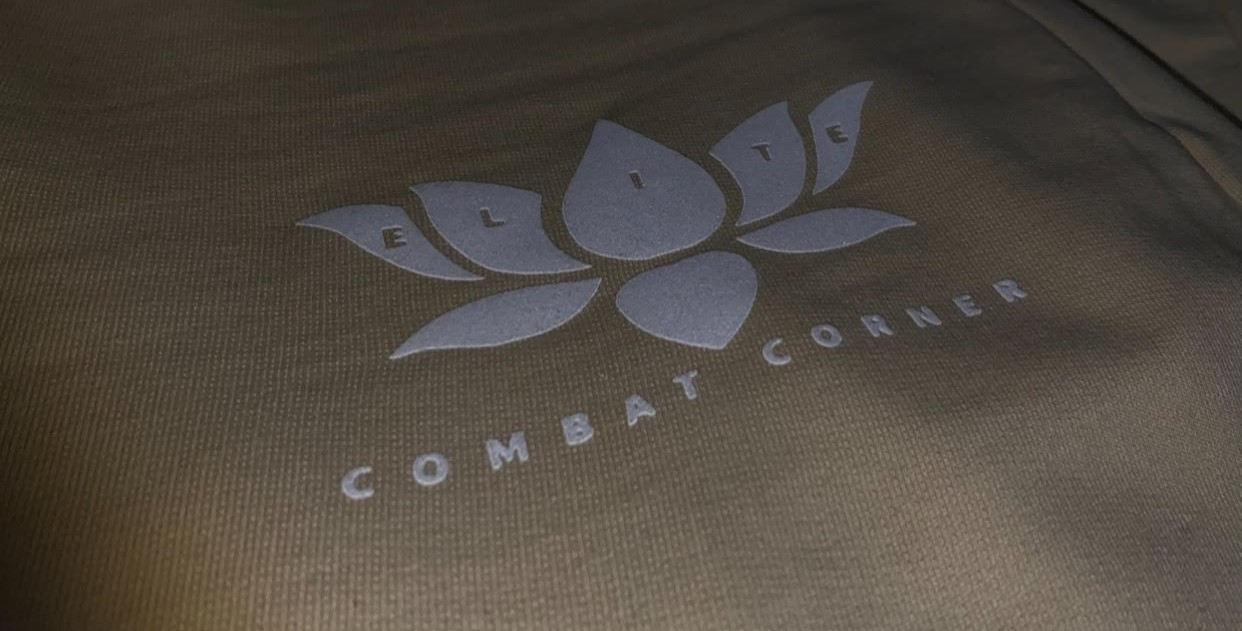
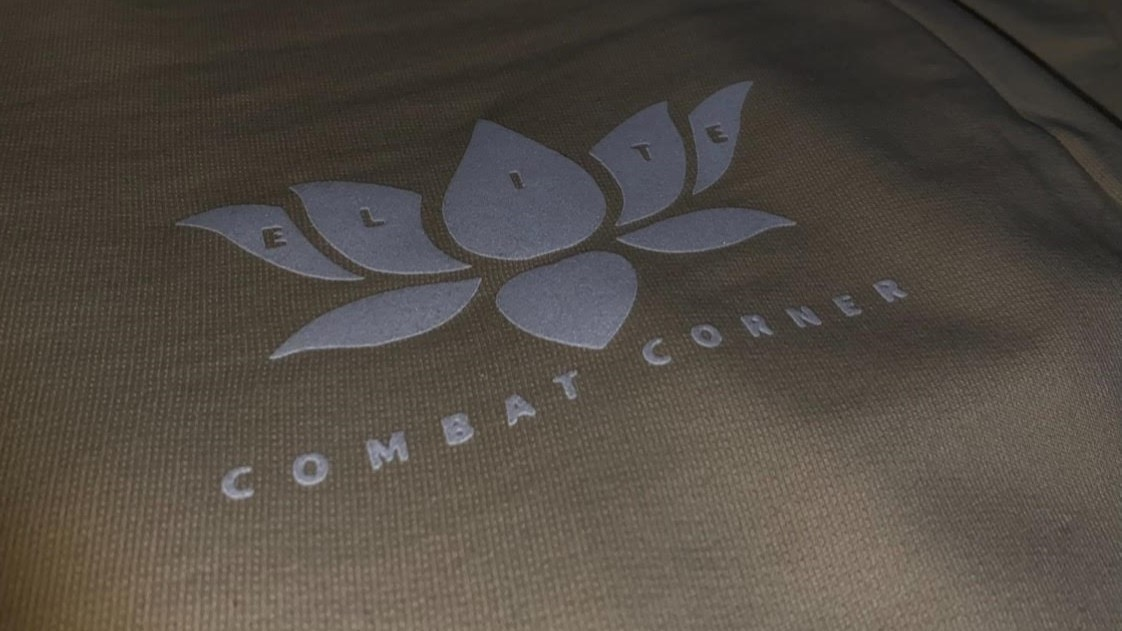
Add files via upload

diff --git a/index.html b/index.html
@@ -98,7 +98,7 @@
         <div id="header-carousel" class="carousel slide" data-bs-ride="carousel">
             <div class="carousel-inner">
                 <div class="carousel-item active">
-                    <img class="w-100" src="img/elite.jpg" alt="Image">
+                    <img class="w-100" src="img/elite2.jpg" alt="Image">
                     <div class="carousel-caption d-flex flex-column align-items-center justify-content-center">
                         <div class="p-3" style="max-width: 900px;">
                             <h5 class="text-white text-uppercase">Elite Combat Corner</h5>
@@ -148,8 +148,7 @@
                     <h5 class="text-primary text-uppercase">σχετικα</h5>
                     <h1 class="display-3 text-uppercase mb-0">καλως ηρθες στην Elite</h1>
                 </div>
-                <h4 class="text-body mb-4">Στην Elite, είμαστε κάτι περισσότερο από μια επιχειρηση στον κλαδο των πολεμικών τεχνών -Με ιδρυτη τον βασιλη φαγογενη, είμαστε μια κοινότητα αφιερωμένη στην ενδυνάμωση των ατόμων μέσω της τέχνης της μάχης και της αυτοβελτίωσης.</h4>
-                <p class="mb-4">Η Elite είναι ένα ολοκληρωμένο ίδρυμα πολεμικών τεχνών που προσφέρει εκπαίδευση, αυτοανάπτυξη, ρούχα μάχης για τους θαυμαστές μας και εξοπλισμό για πολεμικές τέχνες. Με επίκεντρο τα ολιστικά προγράμματα προπόνησης, η επιχείρηση παρέχει εκπαίδευση σε διάφορους κλάδους, όπως kickboxing, MMA και Taekwondo, που απευθύνεται σε άτομα όλων των ηλικιών και επιπέδων δεξιοτήτων. Εκτός από την εκπαίδευση πολεμικών τεχνών, το Elite Combat Corner προσφέρει μια ολοκληρωμένη σειρά προϊόντων αυτοφροντίδας, εξοπλισμού και επώνυμων ρούχων για να υποστηρίξει την πελατεία της στο ταξίδι της προς τη σωματική και ψυχική ευεξία.</p>
+                <h4 class="text-body mb-4">H Elite, ιδρυμένη από τον Βασίλειο Φαγογένη και την αφοσιωμένη του ομαδα σκληραγωγημένων πολεμιστών, είναι κάτι περισσότερο από μια ακαδημία πολεμικών τεχνών - είναι ένας κόσμος αδυσώπητης δύναμης και επικίνδυνης ενδυνάμωσης στον κόσμο των μαχητικών σπορ. Ο Βασίλειος και η ομάδα του φέρνουν έναν πλούτο εμπειρίας, πάθους και αφοσίωσης σε κάθε πτυχή της επιχείρησης, από την εκπαίδευση και την προετοιμασία έως την παροχή κορυφαίων μαχητικών προμηθειών και ενδυμάτων.</p>
                 <div class="rounded bg-dark p-5">
                     <ul class="nav nav-pills justify-content-between mb-3">
                         <li class="nav-item w-50">
@@ -161,10 +160,10 @@
                     </ul>
                     <div class="tab-content">
                         <div class="tab-pane fade show active" id="pills-1">
-                            <p class="text-secondary mb-0">Με ένα ευρύ φάσμα προγραμμάτων κατάρτισης που καθοδηγούνται από έμπειρους εκπαιδευτές, καλωσορίζουμε ενθουσιώδεις κάθε ηλικίας και επίπεδο δεξιοτήτων να συμμετάσχουν μαζί μας για να κατακτήσουν τους κλάδους του kickboxing, του MMA και του Taekwondo. Η δέσμευσή μας στην ποιότητα και την αριστεία εκτείνεται πέρα από τις προπονήσεις μας, καθώς προσφέρουμε μια εκτενή επιλογή προϊόντων αυτοφροντίδας, εξοπλισμού και ενδυμάτων υψηλής ποιότητας για να υποστηρίξουμε τα μέλη μας στο ταξίδι τους για την επίτευξη κορυφαίας φυσικής και πνευματικής ικανότητας. Είτε επιδιώκετε να βελτιώσετε τις δεξιότητές σας στην αυτοάμυνα, είτε να βελτιώσετε το επίπεδο φυσικής σας κατάστασης είτε απλώς να υιοθετήσετε έναν πιο υγιεινό τρόπο ζωής,Η Elite Combat Corner είναι εδώ για να σας καθοδηγήσει σε κάθε βήμα. ----- Επιπροσθέτως όσον αφορά το Taekwondo, εμείς καθώς δεν φέρουμε ακόμα κάποιο πιστοποιητικό/πτυχίο ενισχύουμε εθελοντικά χωρίς όφελος το έργο της σχόλης ''Α. Σ. Ακρόπολη'' (όπου και είμαστε υψηλών ζωνών μαθητευόμενοι μέχρι και σήμερα), οπού διδάσκει ο Δάσκαλος και κύριος Βαγγέλης Τσιμητράς. ----- </p>
+                            <p class="text-secondary mb-0">Με ένα ευρύ φάσμα προγραμμάτων κατάρτισης που καθοδηγούνται από έμπειρους εκπαιδευτές, καλωσορίζουμε ενθουσιώδεις κάθε ηλικίας και επίπεδο δεξιοτήτων να συμμετάσχουν μαζί μας για να κατακτήσουν τους κλάδους του kickboxing, του MMA και της πυγμαχίας. Η δέσμευσή μας στην ποιότητα και την αριστεία εκτείνεται πέρα από τις προπονήσεις μας, καθώς προσφέρουμε μια εκτενή επιλογή προϊόντων αυτοφροντίδας, εξοπλισμού και ενδυμάτων υψηλής ποιότητας για να υποστηρίξουμε τα μέλη μας στο ταξίδι τους για την επίτευξη κορυφαίας φυσικής και πνευματικής ικανότητας. Είτε επιδιώκετε να βελτιώσετε τις δεξιότητές σας στην αυτοάμυνα, είτε να βελτιώσετε το επίπεδο φυσικής σας κατάστασης είτε απλώς να υιοθετήσετε έναν πιο υγιεινό τρόπο ζωής,Η Elite Combat Corner είναι εδώ για να σας καθοδηγήσει σε κάθε βήμα.</p>
                         </div>
                         <div class="tab-pane fade" id="pills-2">
-                            <p class="text-secondary mb-0">Επιλέξτε την Elite για μια απαράμιλλη εμπειρία πολεμικών τεχνών που ξεπερνά την παραδοσιακή προπόνηση. Οι διάσημοι εκπαιδευτές μας φέρνουν τεχνογνωσία και πάθος σε κάθε τάξη, καθοδηγώντας τους μαθητές όλων των ηλικιών και επιπέδων δεξιοτήτων προς τους στόχους τους με εξατομικευμένη προσοχή και υποστήριξη. Με ένα ευρύ φάσμα επιστημονικών κλάδων, όπως το kickboxing, το MMA και το Taekwondo, τα ολοκληρωμένα προγράμματά μας ενισχύουν τη φυσική κατάσταση, την πνευματική πειθαρχία και την προσωπική ανάπτυξη. Πέρα από το ντότζο, η δέσμευσή μας για την ποιότητα επεκτείνεται στην επιλεγμένη επιλογή προϊόντων αυτοφροντίδας, εξοπλισμού και ρούχων, διασφαλίζοντας ότι τα μέλη μας έχουν όλα όσα χρειάζονται για επιτυχία. Γίνετε μέλος της κοινότητάς μας χωρίς αποκλεισμούς και ξεκινήστε ένα ταξίδι ενδυνάμωσης, συντροφικότητας και αυτοανακάλυψης με την Elite Combat Corner.</p>
+                            <p class="text-secondary mb-0">Ελάτε στον Βασίλειο Φαγογένη και στην Elite ομαδα του για να βιώσετε τη σκληρότητα και τη δύναμη των πολεμικών τεχνών. Η κοινότητά μας είναι χτισμένη πάνω στην πειθαρχία, την αδιάκοπη αντοχή και τη συντροφικότητα, βοηθώντας σας να απελευθερώσετε το πλήρες δυναμικό σας και να επιτύχετε αριστεία τόσο στο ρινγκ όσο και έξω από αυτό. Αν θελεις να εισαι αναμεσα στους καλυτερους kickboxers, πυγμαχους και MMAers, η ευκαιρια ειναι τωρα! </p>
                         </div>
                     </div>
                 </div>
@@ -194,13 +193,13 @@
             <div class="col-lg-4 col-md-6">
                 <div class="bg-light rounded text-center p-5">
                     <i class="flaticon-six-pack display-1 text-primary"></i>
-                    <h3 class="text-uppercase my-4">Taekwondo</h3>
-                    <p>Το Taekwondo είναι μια παραδοσιακή κορεάτικη πολεμική τέχνη γνωστή για τις δυναμικές τεχνικές κλωτσιών και την έμφαση στην πειθαρχία και τον σεβασμό. Προσφέρει μια ολιστική προσέγγιση στην εκπαίδευση πολεμικών τεχνών, ενσωματώνοντας φόρμες (μοτίβα), sparring και τεχνικές αυτοάμυνας. Το Taekwondo προάγει τη φυσική κατάσταση, την πνευματική εστίαση και την ανάπτυξη του χαρακτήρα, ενσταλάσσοντας αξίες όπως η επιμονή, η ακεραιότητα και το αδάμαστο πνεύμα στους ασκούμενους του.</p>
+                    <h3 class="text-uppercase my-4">Πυγμαχια</h3>
+                    <p>Η πυγμαχία είναι μια κλασική μορφή πολεμικής τέχνης που εστιάζει στη χρήση των χεριών για γρήγορες και ισχυρές γροθιές. Η πυγμαχία βελτιώνει την αντοχή, τη δύναμη και την ταχύτητα των μαχητών. Μέσα από αυστηρά προγράμματα προπόνησης, οι μαθητές μαθαίνουν να ελέγχουν την τεχνική τους, να αναπτύσσουν γρήγορα αντανακλαστικά και να αποκτούν ατσάλινη αντοχή. Η πυγμαχία επισης βελτιώνει και την ψυχική ανθεκτικότητα, καθιστώντας τους μαχητές έτοιμους για οποιαδήποτε σύγκρουση.</p>
                 </div>
             </div>
             <div class="col-lg-12 col-md-6 text-center">
-                <h1 class="text-uppercase text-light mb-4">30% Εκπτωση μεχρι τον Ιουλιο</h1>
-                <a href="" class="btn btn-primary py-3 px-5">Γινε συνδρομητης</a>
+                <h1 class="text-uppercase text-light mb-4"> Μπες και εσυ στην ομαδα μας</h1>
+                <a href="" class="btn btn-primary py-3 px-5">Γινε μελος!</a>
             </div>
         </div>
     </div>
@@ -285,15 +284,15 @@
                         <div class="col-lg-3 col-md-4 col-sm-6">
                             <div class="bg-dark rounded text-center py-5 px-3">
                                 <h6 class="text-uppercase text-light mb-3">6.00pm - 8.00pm</h6>
-                                <h5 class="text-uppercase text-primary">Taekwondo</h5>
-                                <p class="text-uppercase text-secondary mb-0">τσιμητρας</p>
+                                <h5 class="text-uppercase text-primary">Πυγμαχία</h5>
+                                <p class="text-uppercase text-secondary mb-0">Τσουκαλης</p>
                             </div>
                         </div>
                         <div class="col-lg-3 col-md-4 col-sm-6">
                             <div class="bg-dark rounded text-center py-5 px-3">
                                 <h6 class="text-uppercase text-light mb-3">8.00pm - 10.00pm</h6>
-                                <h5 class="text-uppercase text-primary">Taekwondo</h5>
-                                <p class="text-uppercase text-secondary mb-0">τσιμητρας</p>
+                                <h5 class="text-uppercase text-primary">Πυγμαχία</h5>
+                                <p class="text-uppercase text-secondary mb-0">Τσουκαλης</p>
                             </div>
                         </div>
                     </div>
@@ -346,14 +345,14 @@
                             <div class="bg-dark rounded text-center py-5 px-3">
                                 <h6 class="text-uppercase text-light mb-3">6.00pm - 8.00pm</h6>
                                 <h5 class="text-uppercase text-primary">Kickboxing</h5>
-                                <p class="text-uppercase text-secondary mb-0">τσιμητρας</p>
+                                <p class="text-uppercase text-secondary mb-0">Τσουκαλης</p>
                             </div>
                         </div>
                         <div class="col-lg-3 col-md-4 col-sm-6">
                             <div class="bg-dark rounded text-center py-5 px-3">
                                 <h6 class="text-uppercase text-light mb-3">8.00pm - 10.00pm</h6>
                                 <h5 class="text-uppercase text-primary">Kickboxing</h5>
-                                <p class="text-uppercase text-secondary mb-0">τσιμητρας</p>
+                                <p class="text-uppercase text-secondary mb-0">Τσουκαλης</p>
                             </div>
                         </div>
                     </div>
@@ -405,15 +404,15 @@
                         <div class="col-lg-3 col-md-4 col-sm-6">
                             <div class="bg-dark rounded text-center py-5 px-3">
                                 <h6 class="text-uppercase text-light mb-3">6.00pm - 8.00pm</h6>
-                                <h5 class="text-uppercase text-primary">Taekwondo</h5>
-                                <p class="text-uppercase text-secondary mb-0">τσιμητρας</p>
+                                <h5 class="text-uppercase text-primary">Πυγμαχία</h5>
+                                <p class="text-uppercase text-secondary mb-0">Τσουκαλης</p>
                             </div>
                         </div>
                         <div class="col-lg-3 col-md-4 col-sm-6">
                             <div class="bg-dark rounded text-center py-5 px-3">
                                 <h6 class="text-uppercase text-light mb-3">8.00pm - 10.00pm</h6>
-                                <h5 class="text-uppercase text-primary">Taekwondo</h5>
-                                <p class="text-uppercase text-secondary mb-0">τσιμητρας</p>
+                                <h5 class="text-uppercase text-primary">Πυγμαχία</h5>
+                                <p class="text-uppercase text-secondary mb-0">Τσουκαλης</p>
                             </div>
                         </div>
                     </div>
@@ -466,14 +465,14 @@
                             <div class="bg-dark rounded text-center py-5 px-3">
                                 <h6 class="text-uppercase text-light mb-3">6.00pm - 8.00pm</h6>
                                 <h5 class="text-uppercase text-primary">Kickboxing</h5>
-                                <p class="text-uppercase text-secondary mb-0">τσιμητρας</p>
+                                <p class="text-uppercase text-secondary mb-0">Τσουκαλης</p>
                             </div>
                         </div>
                         <div class="col-lg-3 col-md-4 col-sm-6">
                             <div class="bg-dark rounded text-center py-5 px-3">
                                 <h6 class="text-uppercase text-light mb-3">8.00pm - 10.00pm</h6>
                                 <h5 class="text-uppercase text-primary">Kickboxing</h5>
-                                <p class="text-uppercase text-secondary mb-0">τσιμητρας</p>
+                                <p class="text-uppercase text-secondary mb-0">Τσουκαλης</p>
                             </div>
                         </div>
                     </div>
@@ -525,15 +524,15 @@
                         <div class="col-lg-3 col-md-4 col-sm-6">
                             <div class="bg-dark rounded text-center py-5 px-3">
                                 <h6 class="text-uppercase text-light mb-3">6.00pm - 8.00pm</h6>
-                                <h5 class="text-uppercase text-primary">Taekwondo</h5>
-                                <p class="text-uppercase text-secondary mb-0">τσιμητρας</p>
+                                <h5 class="text-uppercase text-primary">Πυγμαχία</h5>
+                                <p class="text-uppercase text-secondary mb-0">Τσουκαλης</p>
                             </div>
                         </div>
                         <div class="col-lg-3 col-md-4 col-sm-6">
                             <div class="bg-dark rounded text-center py-5 px-3">
                                 <h6 class="text-uppercase text-light mb-3">8.00pm - 10.00pm</h6>
-                                <h5 class="text-uppercase text-primary">Taekwondo</h5>
-                                <p class="text-uppercase text-secondary mb-0">τσιμητρας</p>
+                                <h5 class="text-uppercase text-primary">Πυγμαχία</h5>
+                                <p class="text-uppercase text-secondary mb-0">Τσουκαλης</p>
                             </div>
                         </div>
                     </div>
@@ -735,7 +734,7 @@
                     </div>
                     <div class="position-absolute start-0 bottom-0 w-100 rounded-bottom text-center p-4" style="background: rgba(34, 36, 41, .9);">
                         <h5 class="text-uppercase text-light">Φαγογενης</h5>
-                        <p class="text-uppercase text-secondary m-0">Kickboxing/MMA</p>
+                        <p class="text-uppercase text-secondary m-0">Kickboxing / MMA coach</p>
                     </div>
                 </div>
             </div>
@@ -751,23 +750,23 @@
                     </div>
                     <div class="position-absolute start-0 bottom-0 w-100 rounded-bottom text-center p-4" style="background: rgba(34, 36, 41, .9);">
                         <h5 class="text-uppercase text-light">Παπανικολαου</h5>
-                        <p class="text-uppercase text-secondary m-0">Boxing/Fitness</p>
+                        <p class="text-uppercase text-secondary m-0">Boxing coach</p>
                     </div>
                 </div>
             </div>
             <div class="col-lg-4 col-md-6">
                 <div class="team-item position-relative">
                     <div class="position-relative overflow-hidden rounded">
-                        <img class="img-fluid w-100" src="img/vag.jpg" alt="">
+                        <img class="img-fluid w-100" src="img/tsouk.jpg" alt="">
                         <div class="team-overlay">
                             <div class="d-flex align-items-center justify-content-start">
-                                <a class="btn btn-light btn-square rounded-circle mx-1" href="https://www.instagram.com/theiko.vouno"><i class="fab fa-instagram"></i></a>
+                                <a class="btn btn-light btn-square rounded-circle mx-1" href="https://www.instagram.com/_tsoukalis._"><i class="fab fa-instagram"></i></a>
                             </div>
                         </div>
                     </div>
                     <div class="position-absolute start-0 bottom-0 w-100 rounded-bottom text-center p-4" style="background: rgba(34, 36, 41, .9);">
-                        <h5 class="text-uppercase text-light">τσιμητρας</h5>
-                        <p class="text-uppercase text-secondary m-0">6 DAN Taekwondo</p>
+                        <h5 class="text-uppercase text-light">Τσουκαλης</h5>
+                        <p class="text-uppercase text-secondary m-0">Boxing coach</p>
                     </div>
                 </div>
             </div>
@@ -781,7 +780,7 @@
         <div class="row g-0">
             <div class="col-lg-6" style="min-height: 500px;">
                 <div class="position-relative h-100">
-                    <img class="position-absolute w-100 h-100" src="img/logo.jpg" style="object-fit: cover;">
+                    <img class="position-absolute w-100 h-100" src="img/Logo.jpg" style="object-fit: cover;">
                 </div>
             </div>
             <div class="col-lg-6 bg-dark p-5">
@@ -806,7 +805,7 @@
                             <img class="img-fluid rounded-circle" src="img/George.jpg" alt="">
                             <div class="ps-4">
                                 <h5 class="text-uppercase text-light">ΓΕΩΡΓΙΟΣ ΓΙΑΝΝΟΥΛΗΣ</h5>
-                                <span class="text-uppercase text-secondary">Kickboxing μαθηματα</span>
+                                <span class="text-uppercase text-secondary">Kickboxing μαθητης</span>
                             </div>
                         </div>
                     </div>
@@ -835,7 +834,7 @@
                             <h6 class="text-light text-uppercase mb-0">ΜΑΙΟΥ</h6>
                             <span>2024</span>
                         </div>
-                        <a class="h5 text-uppercase text-light" href="">Τα social μας ειναι ακομα υπο κατασκευη, να εχετε μια ομορφη καλημερα!</h4></a>
+                        <a class="h5 text-uppercase text-light" href="">Τα social μας ειναι ακομα υπο κατασκευη! Συντομα κοντα σας και στα μεσα!</h4></a>
                     </div>
                 </div>
             </div>
@@ -850,7 +849,7 @@
                             <h6 class="text-light text-uppercase mb-0">Ιανουαριου</h6>
                             <span>2024</span>
                         </div>
-                        <a class="h5 text-uppercase text-light" href="https://www.instagram.com/elitecombatcorner">Το καταστημα ειναι υπο κατασκευη,Για αγορες στο @elitecombatcorner</h4></a>
+                        <a class="h5 text-uppercase text-light" href="https://www.instagram.com/elitecombatcorner">Το καταστημα ειναι υπο κατασκευη, για αγορες καντε μεταβαση στο elite ig.</h4></a>
                     </div>
                 </div>
             </div>
@@ -865,7 +864,7 @@
                             <h6 class="text-light text-uppercase mb-0">ΝΟΕΜΒΡΙΟΥ</h6>
                             <span>2023</span>
                         </div>
-                        <a class="h5 text-uppercase text-light" href="">Η σελιδα ειναι ακομα υπο κατασκευη και ενδεχεται να μην λειτουργει σωστα</h4></a>
+                        <a class="h5 text-uppercase text-light" href="">Η σελιδα ειναι ακομα υπο κατασκευη και ενδεχεται να μην λειτουργει σωστα.</h4></a>
                     </div>
                 </div>
             </div>
